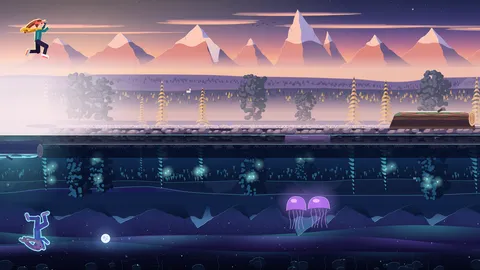
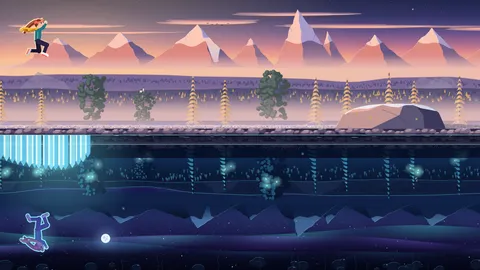
Spiegelsee: Arven dunkelgrün statt grau
Die Arven am Ufer wirkten im Morgenlicht wie graue Rauchballen. Jetzt
sind sie dunkel blaugrün mit grünem Licht auf der linken Seite und lesen
sich als Nadelbäume zwischen den goldenen Lärchen. Die Nachtfarben im See
bleiben. Standbilder neu aufgenommen.

Claude-Session: https://claude.ai/code/session_01Tf8qq8XhrvAsxkxogzMKAs

diff --git a/spiegelsee.js b/spiegelsee.js
@@ -1437,7 +1437,7 @@
   }
 
   const WALD_TAG = {
-    laerche: [202, 150, 92], laercheLicht: [246, 196, 126], arve: [40, 52, 78], arveLicht: [104, 108, 140],
+    laerche: [202, 150, 92], laercheLicht: [246, 196, 126], arve: [30, 56, 56], arveLicht: [86, 118, 104],
     stamm: [70, 56, 80], wiese: [92, 84, 124], nebel: [238, 200, 198], funken: null,
   };
   const WALD_NACHT = {
